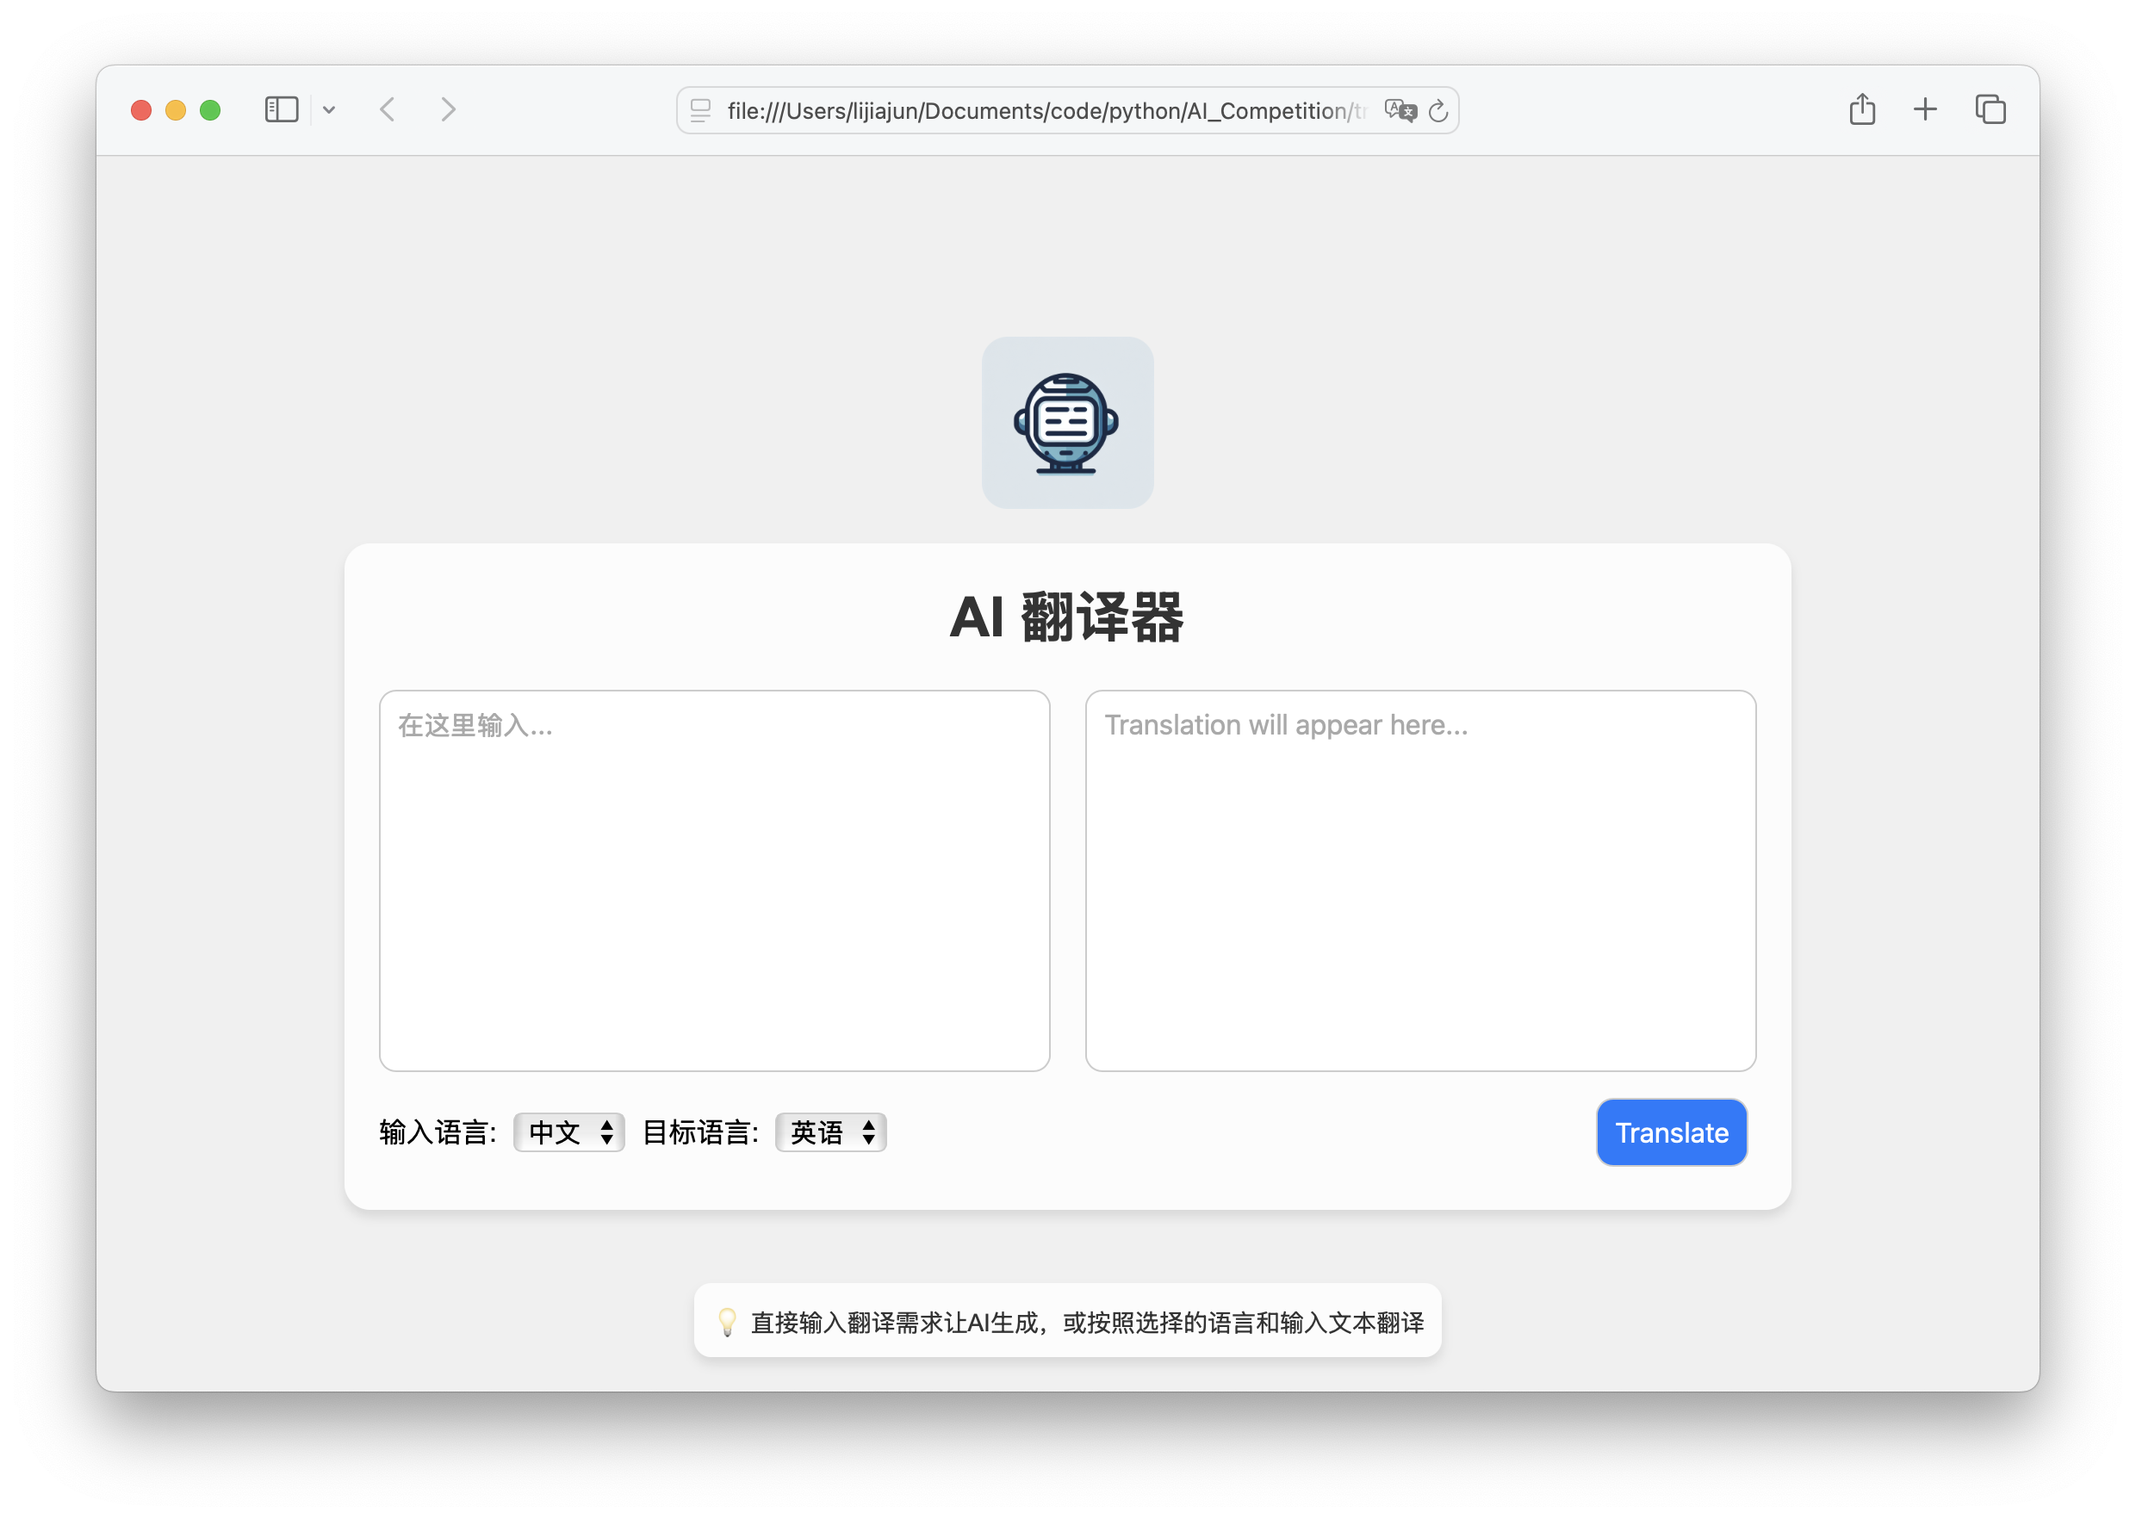
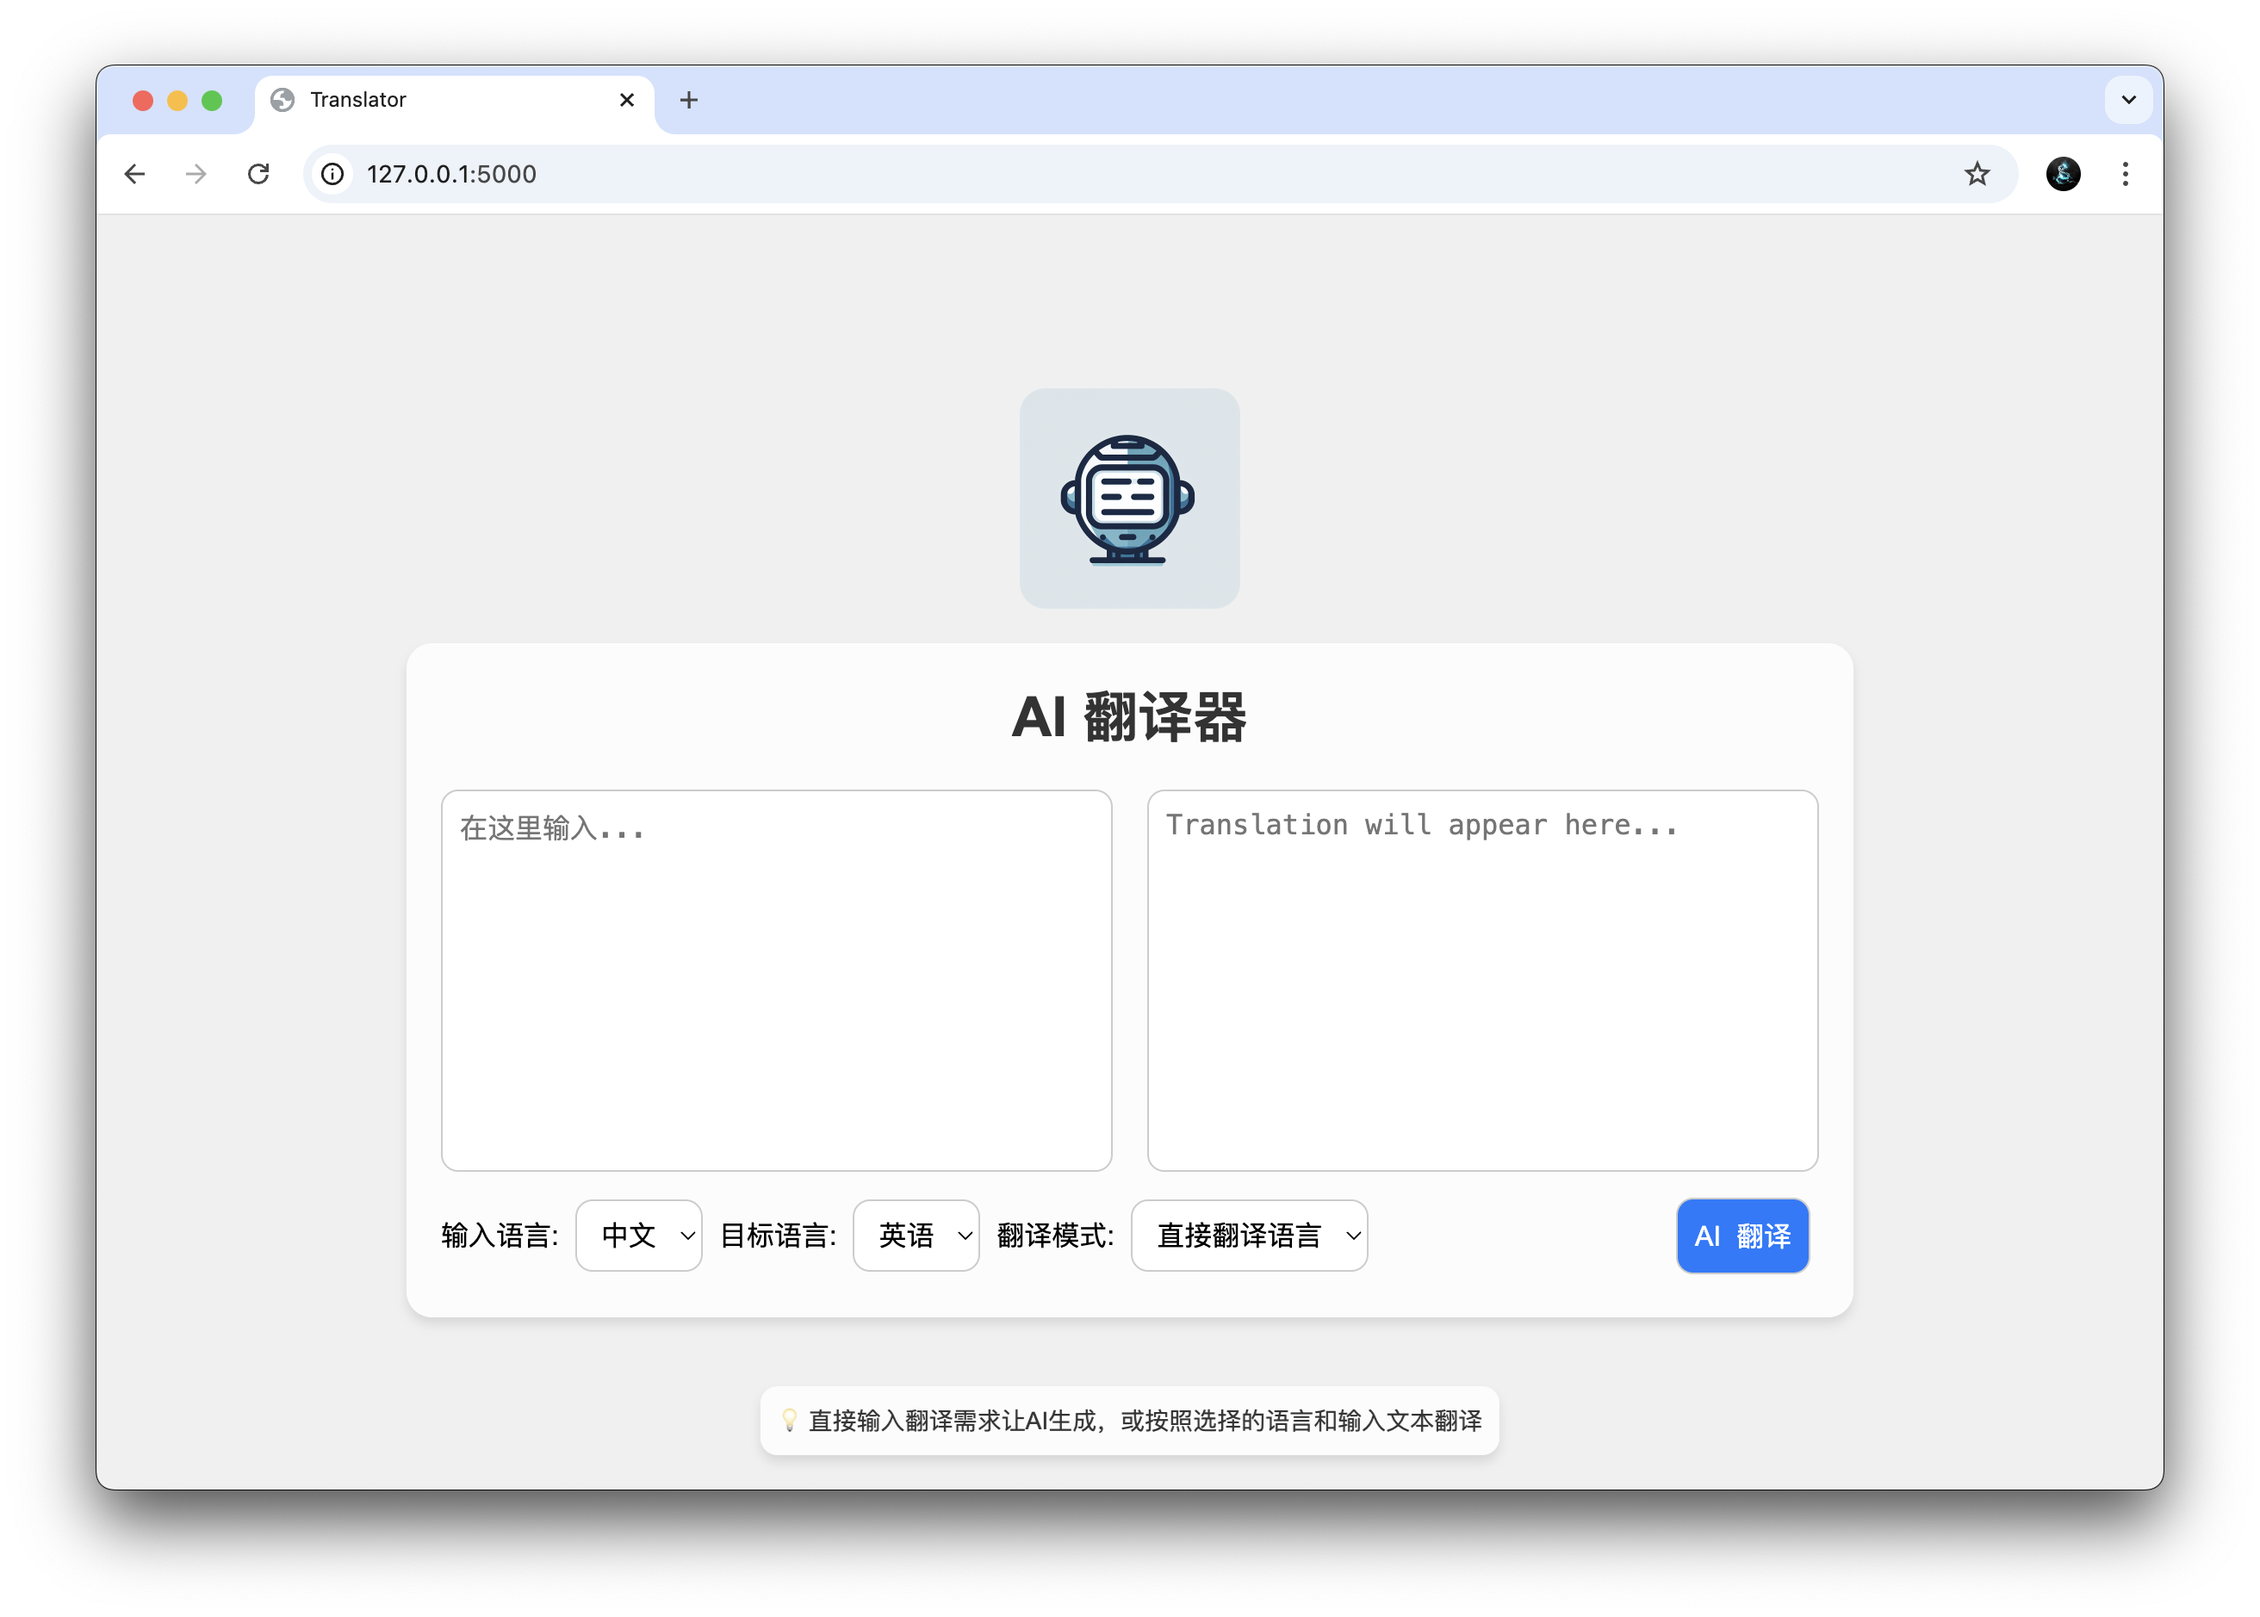
update

diff --git a/app.py b/app.py
@@ -1,22 +1,21 @@
 from flask import Flask, request, render_template, jsonify
 import json
 import requests
-import logging
+import argparse
 
-
-logging.basicConfig(level=logging.INFO)
-
-# backend server by fkask
 app = Flask(__name__)
 
-PROMPT_1="en指英语,cn指中文,ja指日文,ko指韩语"
-PROMPT_2="model_1是将内容翻译到指定语言的模式,model_2是按照场景需求给出对应语言内容的模式."
-PROMPT_3="示例: input:我想要一桶炸鸡; from cn to en; model_1"
-PROMPT_4="应该回答: I want a bucket of fried chicken."
-PROMPT_5="示例: input:我在麦当劳店里想向店员点一桶炸鸡; from cn to en; model_2"
-PROMPT_6="应该回答: Hello, I want a bucket of fried chicken."
-PROMPT_7="下面是一个获取到的实际数据,给出最终的回答: "
-PROMPT_TEXT = f"{PROMPT_1}\n{PROMPT_2} {PROMPT_3}\n{PROMPT_4} {PROMPT_5}\n{PROMPT_6}"
+parser = argparse.ArgumentParser()
+parser.add_argument("--model", type=str, help="Model you want to use", default="qwen2:0.5b")
+args = parser.parse_args()
+app.config['TRANSLATION_MODEL'] = args.model
+
+PROMPT_1 = "en英语,cn中文,ja日文,ko韩语"
+PROMPT_2 = "model_1直接翻译到指定语言,model_2按情境给出恰当翻译."
+PROMPT_3 = "例如: input:我要一桶炸鸡; from cn to en; model_1, 应该回答: I want a bucket of fried chicken."
+PROMPT_4 = "例如: input:我在麦当劳店里想向店员点一桶炸鸡; from cn to en; model_2, 应改回答: Hello, I want a bucket of fried chicken."
+PROMPT_5 = "以下是实际数据: "
+PROMPT_TEXT = f"{PROMPT_1}\n{PROMPT_2}\n{PROMPT_3}\n{PROMPT_4}\n{PROMPT_5}"
 
 @app.route('/')
 def index():
@@ -28,24 +27,18 @@ def translate():
     input_lang = request.form['inputLang']
     output_lang = request.form['outputLang']
     trans_model = request.form['transModel']
+    model = app.config['TRANSLATION_MODEL']
+    print(f"###Input text: {input_text}, Input language: {input_lang}, Output language: {output_lang}")
+    introduction_text = f"input:{input_text}; from {input_lang} to {output_lang}; {trans_model}, 给出最终的回答："
     
-    logging.info(f"Input text:{input_text}, Input language: {input_lang}, Output language: {output_lang}")
-    introduction_text = f"###input:{input_text}; from {input_lang} to {output_lang}; {trans_model}"
-    # TODO: Add translation logic here
     res = requests.post(
         "http://0.0.0.0:11434/api/chat",
-        json = {
-            "model": "qwen2:0.5b", 
+        json={
+            "model": model,
             "messages": [
-                {
-                    "role": "system", 
-                    "content": PROMPT_TEXT
-                },
-                {
-                    "role": "user", 
-                    "content": introduction_text
-                }
-            ], 
+                {"role": "system", "content": PROMPT_TEXT},
+                {"role": "user", "content": introduction_text}
+            ],
             "stream": True
         },
     )
@@ -63,7 +56,7 @@ def translate():
 
         if body.get("done", False):
             message["content"] = output
-            logging.info(f"Final response: {message}")
+            print(f"###Final response: {message}")
             return jsonify(message)
 
 if __name__ == '__main__':

diff --git a/README.md b/README.md
@@ -1,8 +1,15 @@
 # AI_Translator
 For Shengteng AI Competition, to build a embedded AI software
 
-1. Artificial intelligence from Qwen:0.5b model, run by ollama in originpai.
-2. Desigen a multiple input translator, user can input their needs or only translate text.
-3. Use Flask frame to handle connection and message between broswer and server。
+1. Artificial intelligence from Qwen:0.5b model, run by ollama.
+2. Develop on originpai embedded device.
+3. Desigen a multiple model translator, user can input their needs or only translate text.
+4. Use Flask frame to handle connection and message between broswer and server。
 
 <img src="image.png" alt="sample" style="width:75%;"/>
+
+## How to run it
+1. Install [ollama](https://ollama.com/download) on your system.
+2. Download a [LLM](https://ollama.com/library) you need to use and start it.
+3. Run application `python app.py --model ${YOUR_MODEL}`
+4. Visit <http://127.0.0.1:5000> to use the AI Translator.
